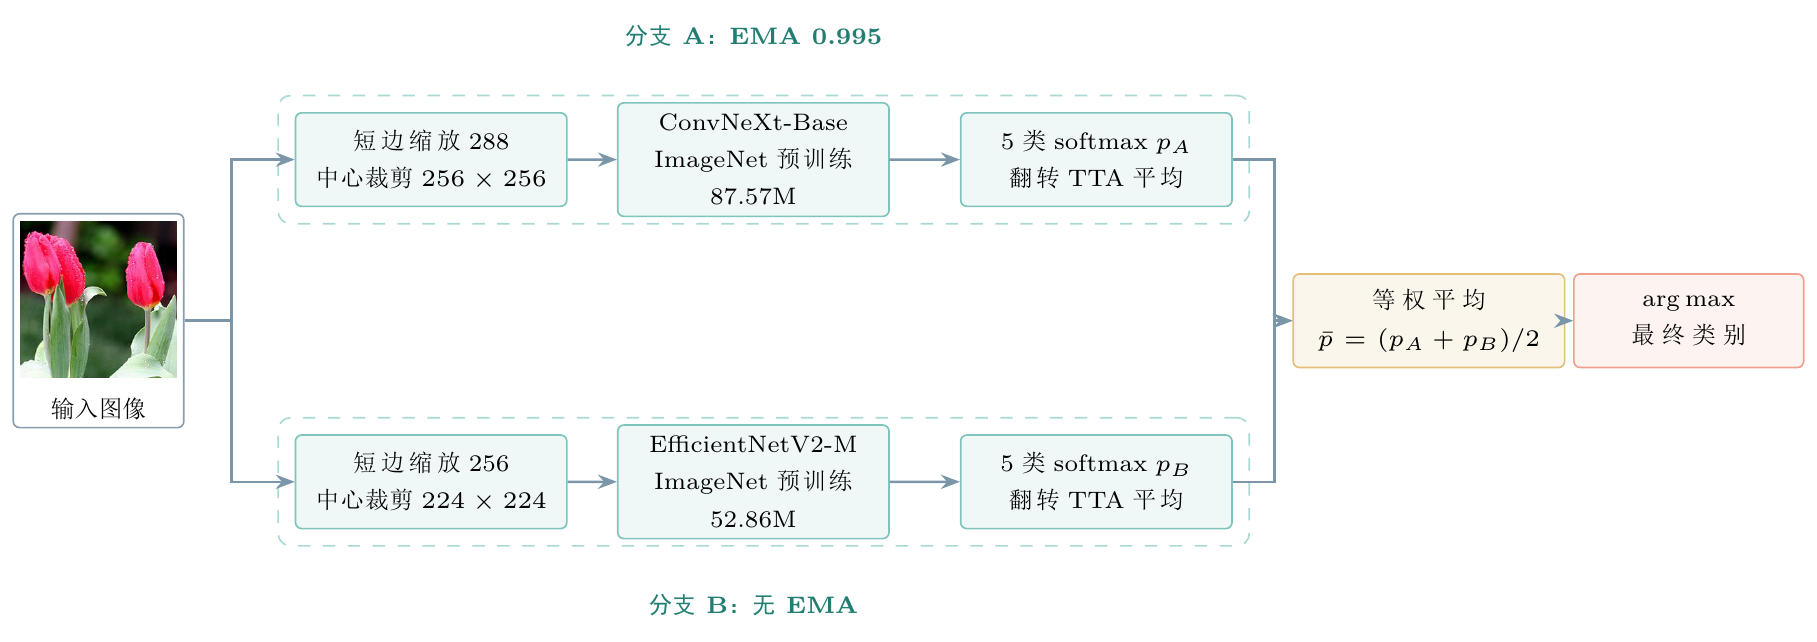
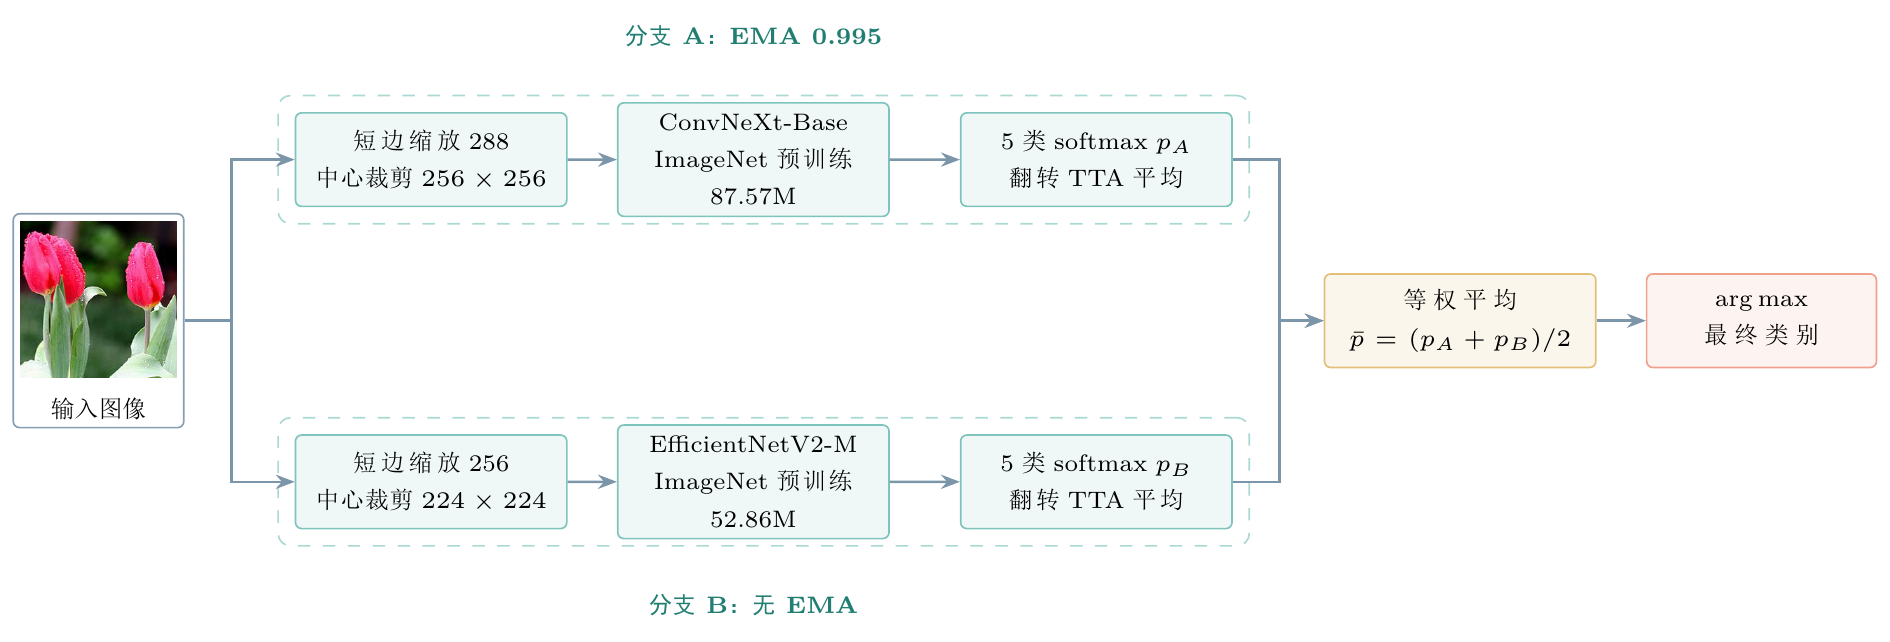
Fix architecture diagram arrow spacing

diff --git a/reports/final_report/main.tex b/reports/final_report/main.tex
@@ -581,16 +581,16 @@ EfficientNetV2-M & 224 & 10 & 94.01\% & 96.73\% & 0.9669 \\
 \node[branch] (preB) at (3.2,-1.55) {短边缩放 256\\中心裁剪 $224\times224$};
 \node[branch] (cnnB) at (6.3,-1.55) {EfficientNetV2-M\\ImageNet 预训练\\52.86M};
 \node[branch] (probB) at (9.6,-1.55) {5 类 softmax $p_B$\\翻转 TTA 平均};
-\node[merge] (avg) at (12.8,0) {等权平均\\$\bar p=(p_A+p_B)/2$};
-\node[finalbox, text width=2.0cm] (arg) at (15.3,0) {$\arg\max$\\最终类别};
+\node[merge] (avg) at (13.1,0) {等权平均\\$\bar p=(p_A+p_B)/2$};
+\node[finalbox, text width=2.0cm] (arg) at (16.0,0) {$\arg\max$\\最终类别};
 \draw[arr] (input.east) -- ++(0.45,0) |- (preA.west);
 \draw[arr] (input.east) -- ++(0.45,0) |- (preB.west);
 \draw[arr] (preA) -- (cnnA);
 \draw[arr] (cnnA) -- (probA);
 \draw[arr] (preB) -- (cnnB);
 \draw[arr] (cnnB) -- (probB);
-\draw[arr] (probA.east) -- ++(0.4,0) |- (avg.west);
-\draw[arr] (probB.east) -- ++(0.4,0) |- (avg.west);
+\draw[arr] (probA.east) -- ++(0.45,0) |- (avg.west);
+\draw[arr] (probB.east) -- ++(0.45,0) |- (avg.west);
 \draw[arr] (avg) -- (arg);
 \node[font=\scriptsize\bfseries, text=teal!80!black, above=4mm of cnnA] {分支 A：EMA 0.995};
 \node[font=\scriptsize\bfseries, text=teal!80!black, below=4mm of cnnB] {分支 B：无 EMA};
@@ -1022,6 +1022,8 @@ tulips     & 0.956 & 0.948 & 0.952 & 115 \\
 \section{完整代码}
 \label{app:code}
 
-本文的完整源代码见 GitHub 仓库：\url{https://github.com/The-time-forever/ML-Flowers-Basic}。
+本文的完整源代码见以下 GitHub 仓库：
+
+\url{https://github.com/The-time-forever/ML-Flowers-Basic}。
 
 \end{document}
